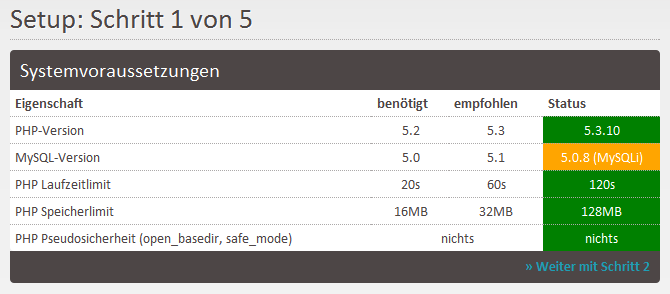
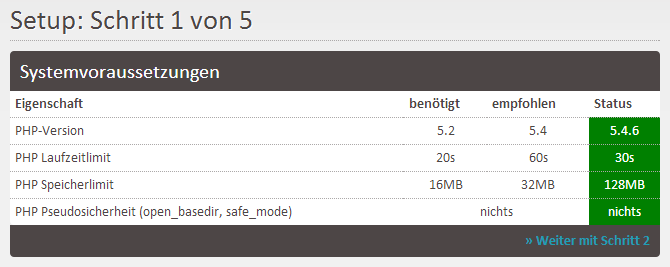
updated install docs for 0.7

Changed region(s): [[0.0, 0.1498, 0.9851, 0.9288], [0.0, 0.03, 0.3881, 0.1199], [0.6269, 0.4794, 0.6866, 0.5094]]

diff --git a/general/install.rst b/general/install.rst
@@ -1,5 +1,25 @@
-Installationshinweise
-=====================
+Installation
+============
+
+Dieser Guide beschreibt die Installation des Basissystems von SallyCMS.
+
+Sally steht in zwei verschiedenen Ausführungen bereit:
+
+**Composer**
+  Die Composer-Version enthält ausschließlich das Kernsystem und muss, bevor
+  sie installiert werden kann, erst mittels Composer_ eingerichtet werden. Dabei
+  werden die benötigten Bibliotheken runtergeladen und installiert.
+  Diese Variante ist für alle Nutzer empfohlen, da sie es erlaubt, automatisch
+  Aktualisierungen für Sally und die verwendeten AddOns zu erhalten.
+
+**Standalone**
+  Für Nutzer, die kein Composer verwenden können oder wollen, steht auch noch
+  eine Standalone-Version bereit. Hier sind bereits die nötigen Bibliotheken
+  enthalten (nicht jedoch eventuelle AddOns).
+  Es ist problemlos möglich, mit einem Standalone-Paket zu beginnen und später
+  Composer einzusetzen, um Aktualisierungen oder AddOns zu erhalten.
+
+.. _Composer: http://getcomposer.org/
 
 Systemvoraussetzungen
 ---------------------
@@ -10,8 +30,13 @@ Systemvoraussetzungen
     deaktiviert sein.
   * Die Standard-Module von PHP werden benötigt: mbstring, PCRE,
     zlib, gd, PDO, json, DateTime, ...
+  * Für den Einsatz von Composer ist PHP 5.3+ notwendig. Für das reine
+    Ausführen von Sally ist dabei weiterhin 5.2 benötigt; Composer kommt nur
+    "außerhalb" von Sally zum Verwalten der Abhängigkeiten zum Einsatz. Ein
+    Composer-Projekt kann also problemlos auf Servern mit PHP 5.2 deployt
+    werden.
 
-* MySQL 5.0
+* MySQL 5.0 oder MariaDB 5.0
 * Apache 2.2
 
   * `mod_rewrite <http://httpd.apache.org/docs/2.2/mod/mod_rewrite.html>`_,
@@ -25,27 +50,35 @@ zu steigern:
 * XCache, APC, Zend Data Server, eAccelerator
 * Memcache (php_memcache), Memcached (php_memcached)
 
-Wir empfehlen XCache oder APC unter Windows und APC mit Memcached auf
-Produktivsystemen.
+Wir empfehlen APC unter Windows und APC mit Memcached auf Produktivsystemen.
 
-Upload
-------
+Projekt starten
+---------------
 
-#. Entpacke das heruntergladene Archiv auf deinen Rechner.
-#. Lade alle Dateien bis auf die folgenden aus dem Download-Archiv auf deinen
-   Webspace.
+#. Lade den Code herunter. Dazu gibt es mehrere Möglichkeiten:
 
-   * :file:`contrib/`
-   * :file:`sally/tests/`
-   * :file:`version`
+   * Lade ein `fertiges Download-Archiv <https://projects.webvariants.de/projects/sallycms/files>`_ herunter.
+   * Klone mit Mercurial das `Sally-Repository bei Bitbucket <https://bitbucket.org/SallyCMS/0.7>`_.
+   * Klone mit Git das `Sally-Repository bei GitHub <https://github.com/sallycms/0.7>`_.
+
+   Beachte, dass die Repositories die benötigten Bibliotheken nicht enthalten
+   und daher Composer verwendet werden muss, um daraus lauffähige Projekte zu
+   erstellen.
+#. Falls keine Standalone-Variante verwendet wurde, muss Composer einmal
+   aufgerufen werden. Die :file:`composer.phar` kann auf der Composer-Website
+   kostenlos heruntergeladen werden und sollte im Hauptverzeichnis von Sally
+   abgelegt werden. Danach kann sie aufgerufen werden::
+
+   $ php composer.phar install
 
 #. Stelle sicher, dass Sally beim ersten Aufruf das Verzeichnis :file:`data`
    erstellen kann, falls es nicht vorhanden ist. :file:`data` und alle darin
    enthaltenen Verzeichnisse sollten auf *guten* Servern ``chmod 664`` haben.
    Server, bei denen Webserver und FTP als verschiedene User laufen, benötigen
-   ``chmod 0777``.
-#. Rufe das von dir erstellte Verzeichnis im Browser auf, z. B. via
-   http://example.com/backend/. Du solltest dann automatisch zum Setup
+   ``chmod 0777``. Auf Windows-Rechnern gibt es keine Probleme mit den
+   Dateiberechtigungen.
+#. Rufe das von dir erstellte Projekt im Browser auf, z. B. via
+   ``http://localhost/mein-projekt/``. Du solltest dann automatisch zum Setup
    weitergeleitet werden.
 
 Häufige Startprobleme
@@ -86,8 +119,9 @@ Lizenzabkommen
 
 .. image:: /_static/step1.png
 
-Akzeptiere die Lizenz. Du musst hier der GPL zustimmen, da Sally noch
-nicht ausschließlich aus MIT-lizensiertem Code besteht.
+Akzeptiere die Lizenz. Du musst hier der MIT zustimmen, die für den Systemkern
+sowie alle AddOns von SallyCMS (BE-Search, Import/Export und Image-Resize) gilt.
+AddOns können natürlich ggf. andere Lizenzen einsetzen.
 
 Schritt 1: Systemvoraussetzungen
 ^^^^^^^^^^^^^^^^^^^^^^^^^^^^^^^^
@@ -96,8 +130,8 @@ Schritt 1: Systemvoraussetzungen
 
 In diesem Schritt wird die Konfiguration des Servers geprüft. Treten Probleme
 auf, die eine Installation verhindern, kannst du den Vorgang ab diesem Punkt
-nicht fortsetzen. Andernfalls bestätige den Schritt und gehe zur
-Datenbank-Einrichtung weiter.
+nicht fortsetzen. Wenn es keine Probleme gibt, wird dieser Schritt automatisch
+übersprungen und du zum Datenbank-Setup weitergeleitet.
 
 Schritt 2: Datenbankinformationen
 ^^^^^^^^^^^^^^^^^^^^^^^^^^^^^^^^^
@@ -113,6 +147,11 @@ erscheinen und das Formular wieder erscheinen.
   Auch wenn es bei der Datenbank-Einrichtung so klingt, als wären die anderen
   DBMS neben MySQL eine gefährliche, aber mögliche Wahl: Dem ist nicht so. Du
   musst MySQL auswählen.
+
+.. note::
+
+  Du kannst auch problemlos MariaDB anstatt MySQL verwenden. Im Setup wählt
+  man dabei hingegen trotzdem MySQL aus.
 
 Schritt 3: Datenbank einrichten
 ^^^^^^^^^^^^^^^^^^^^^^^^^^^^^^^
